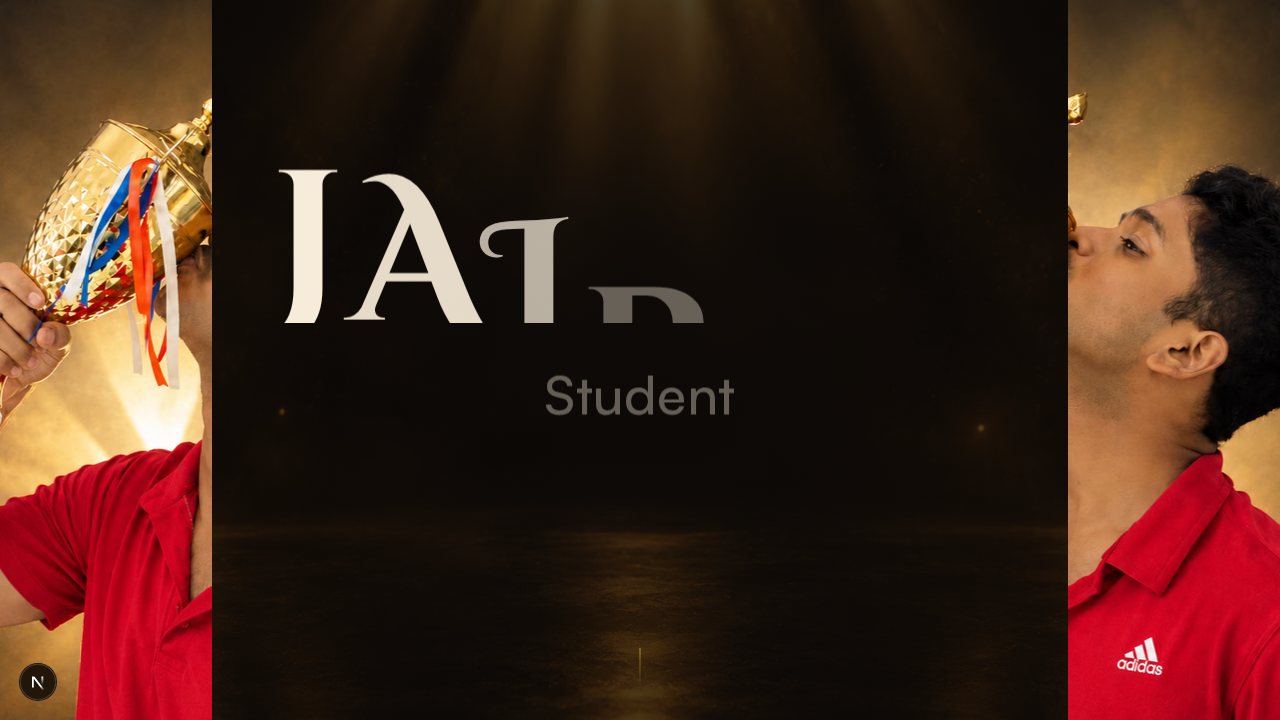
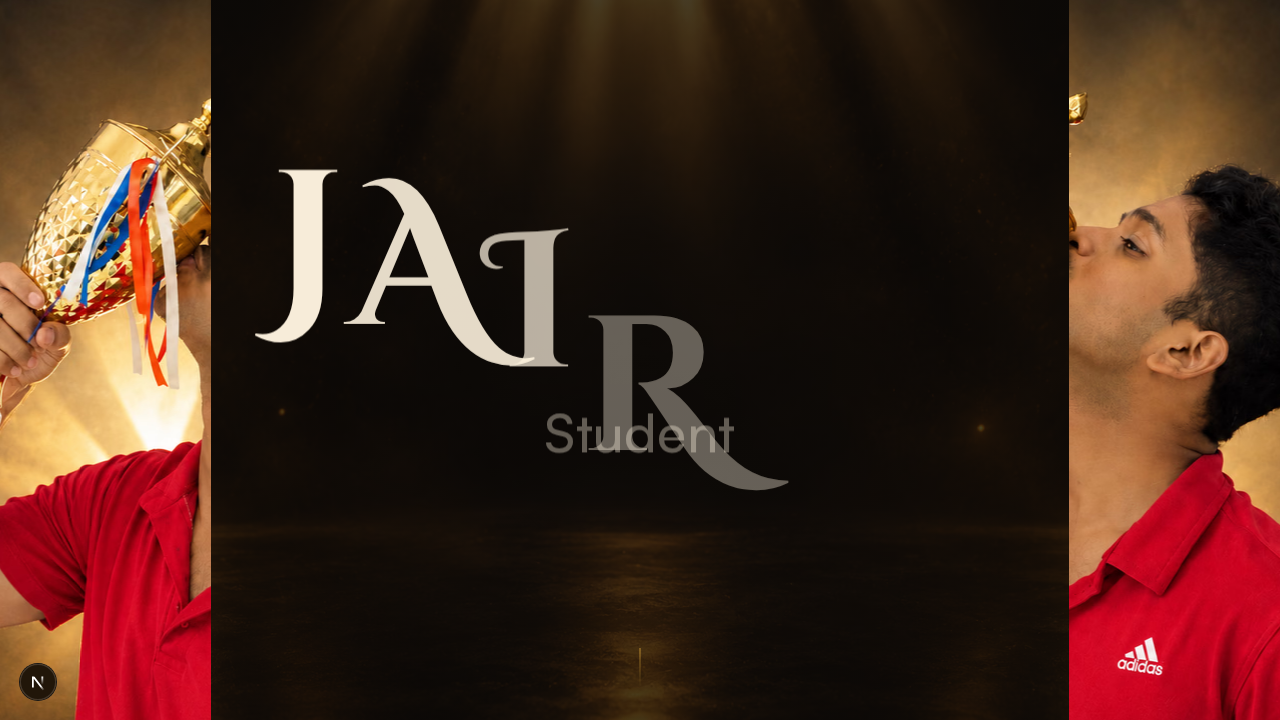
phase 1 build 7 && complete

diff --git a/src/components/layout/PhotoCoverSplit.tsx b/src/components/layout/PhotoCoverSplit.tsx
@@ -231,9 +231,10 @@ export const PhotoCoverSplit: React.FC = () => {
             className="flex flex-col items-center justify-center will-change-transform"
           >
             {/* Accessible H1 with letter spans for stagger animation */}
-            <h1 className="font-hero-name tracking-tighter m-0 p-0 flex justify-center overflow-hidden">
+            <h1 className="font-hero-name tracking-tighter m-0 p-0 flex justify-center py-2">
               <span className="sr-only">{heroContent.name}</span>
               <span aria-hidden="true" className="flex">
+
                 {nameLetters.map((char, index) => (
                   <span
                     key={`${char}-${index}`}

diff --git a/src/styles/globals.css b/src/styles/globals.css
@@ -96,10 +96,13 @@ body {
   font-family: 'Cinzel Decorative', 'Cinzel Variable', 'Cinzel', serif;
   font-size: clamp(3.2rem, 15vw, 20rem);
   font-weight: 700;
-  line-height: 0.85;
+  line-height: 1.05;
   letter-spacing: 0.02em;
   color: var(--color-hero-name);
+  padding-top: 0.1em;
+  padding-bottom: 0.1em;
 }
+
 
 
 .font-hero-role {
